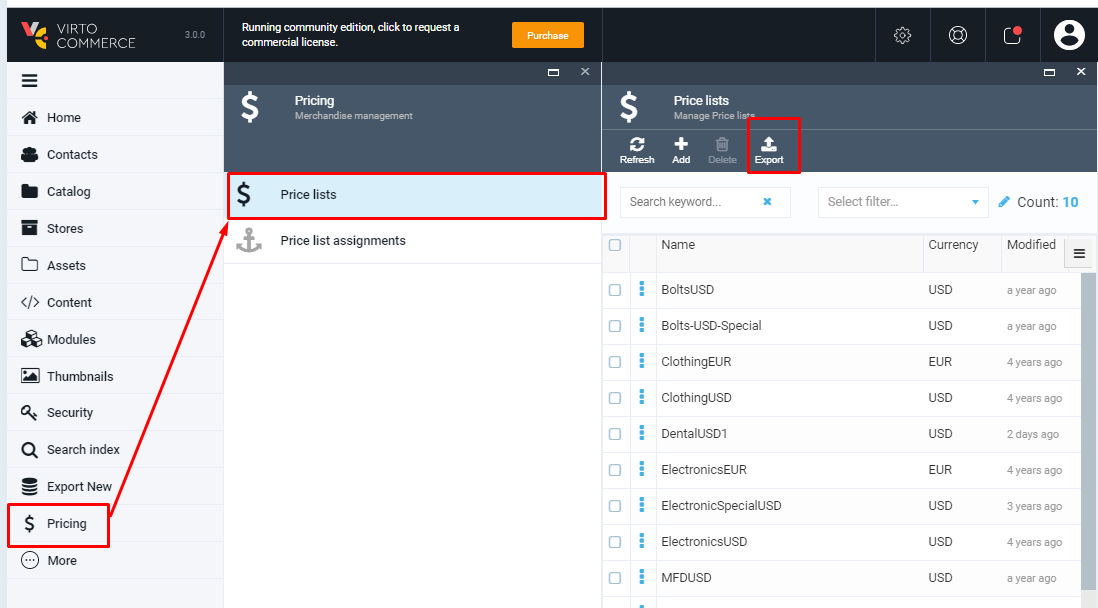
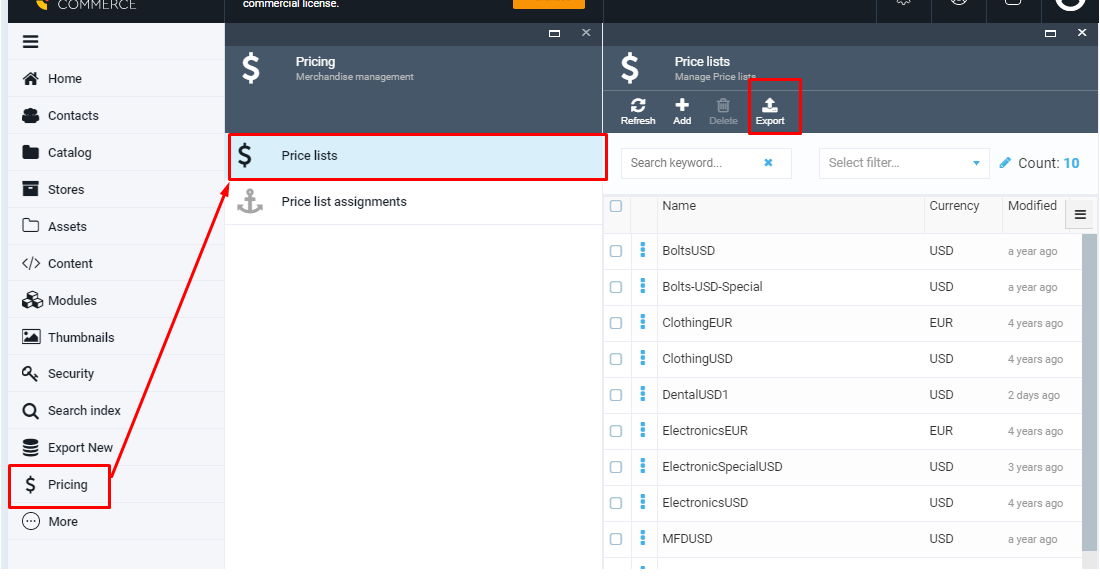
edited

diff --git a/docs/export-functionality.md b/docs/export-functionality.md
@@ -4,16 +4,27 @@
 
 The Pricing module includes Export functionality, which allows the user to export data using different export criteria. Two types of data objects are allowed to be exported from Pricing module:
 
+1. Prices;
 1. Price lists;
 1. Price list assignments.
 
-The user can start the data export simply by selecting the data object and going through a very simple and intuitive wizard. The Export function is integrated with the Pricing Module and provided out-of-the-box. The screenshots bellow show the main steps of the data export in Pricing module:
+The user can start the data export by filtering/selecting data and going to generic export wizard using Export button.
+
+ The Export function is integrated with the Pricing Module and provided out-of-the-box. The screenshots bellow show the main steps of the data export in Pricing module:
 
 ### Export Price lists
+
+The user can either select all the price lists available from the list as shown bellow:
 
 ![Start Export](media/screen-start-export.png)
 
 ![Export Prices](media/screen-export-prices.png)
+
+or select some specific price lists:
+
+![Three of ten selected](media/screen-three-items-selected.png)
+
+![Pricelist export](media/screen-pricelist-export.png)
 
 ### Export Price list assignments
 
